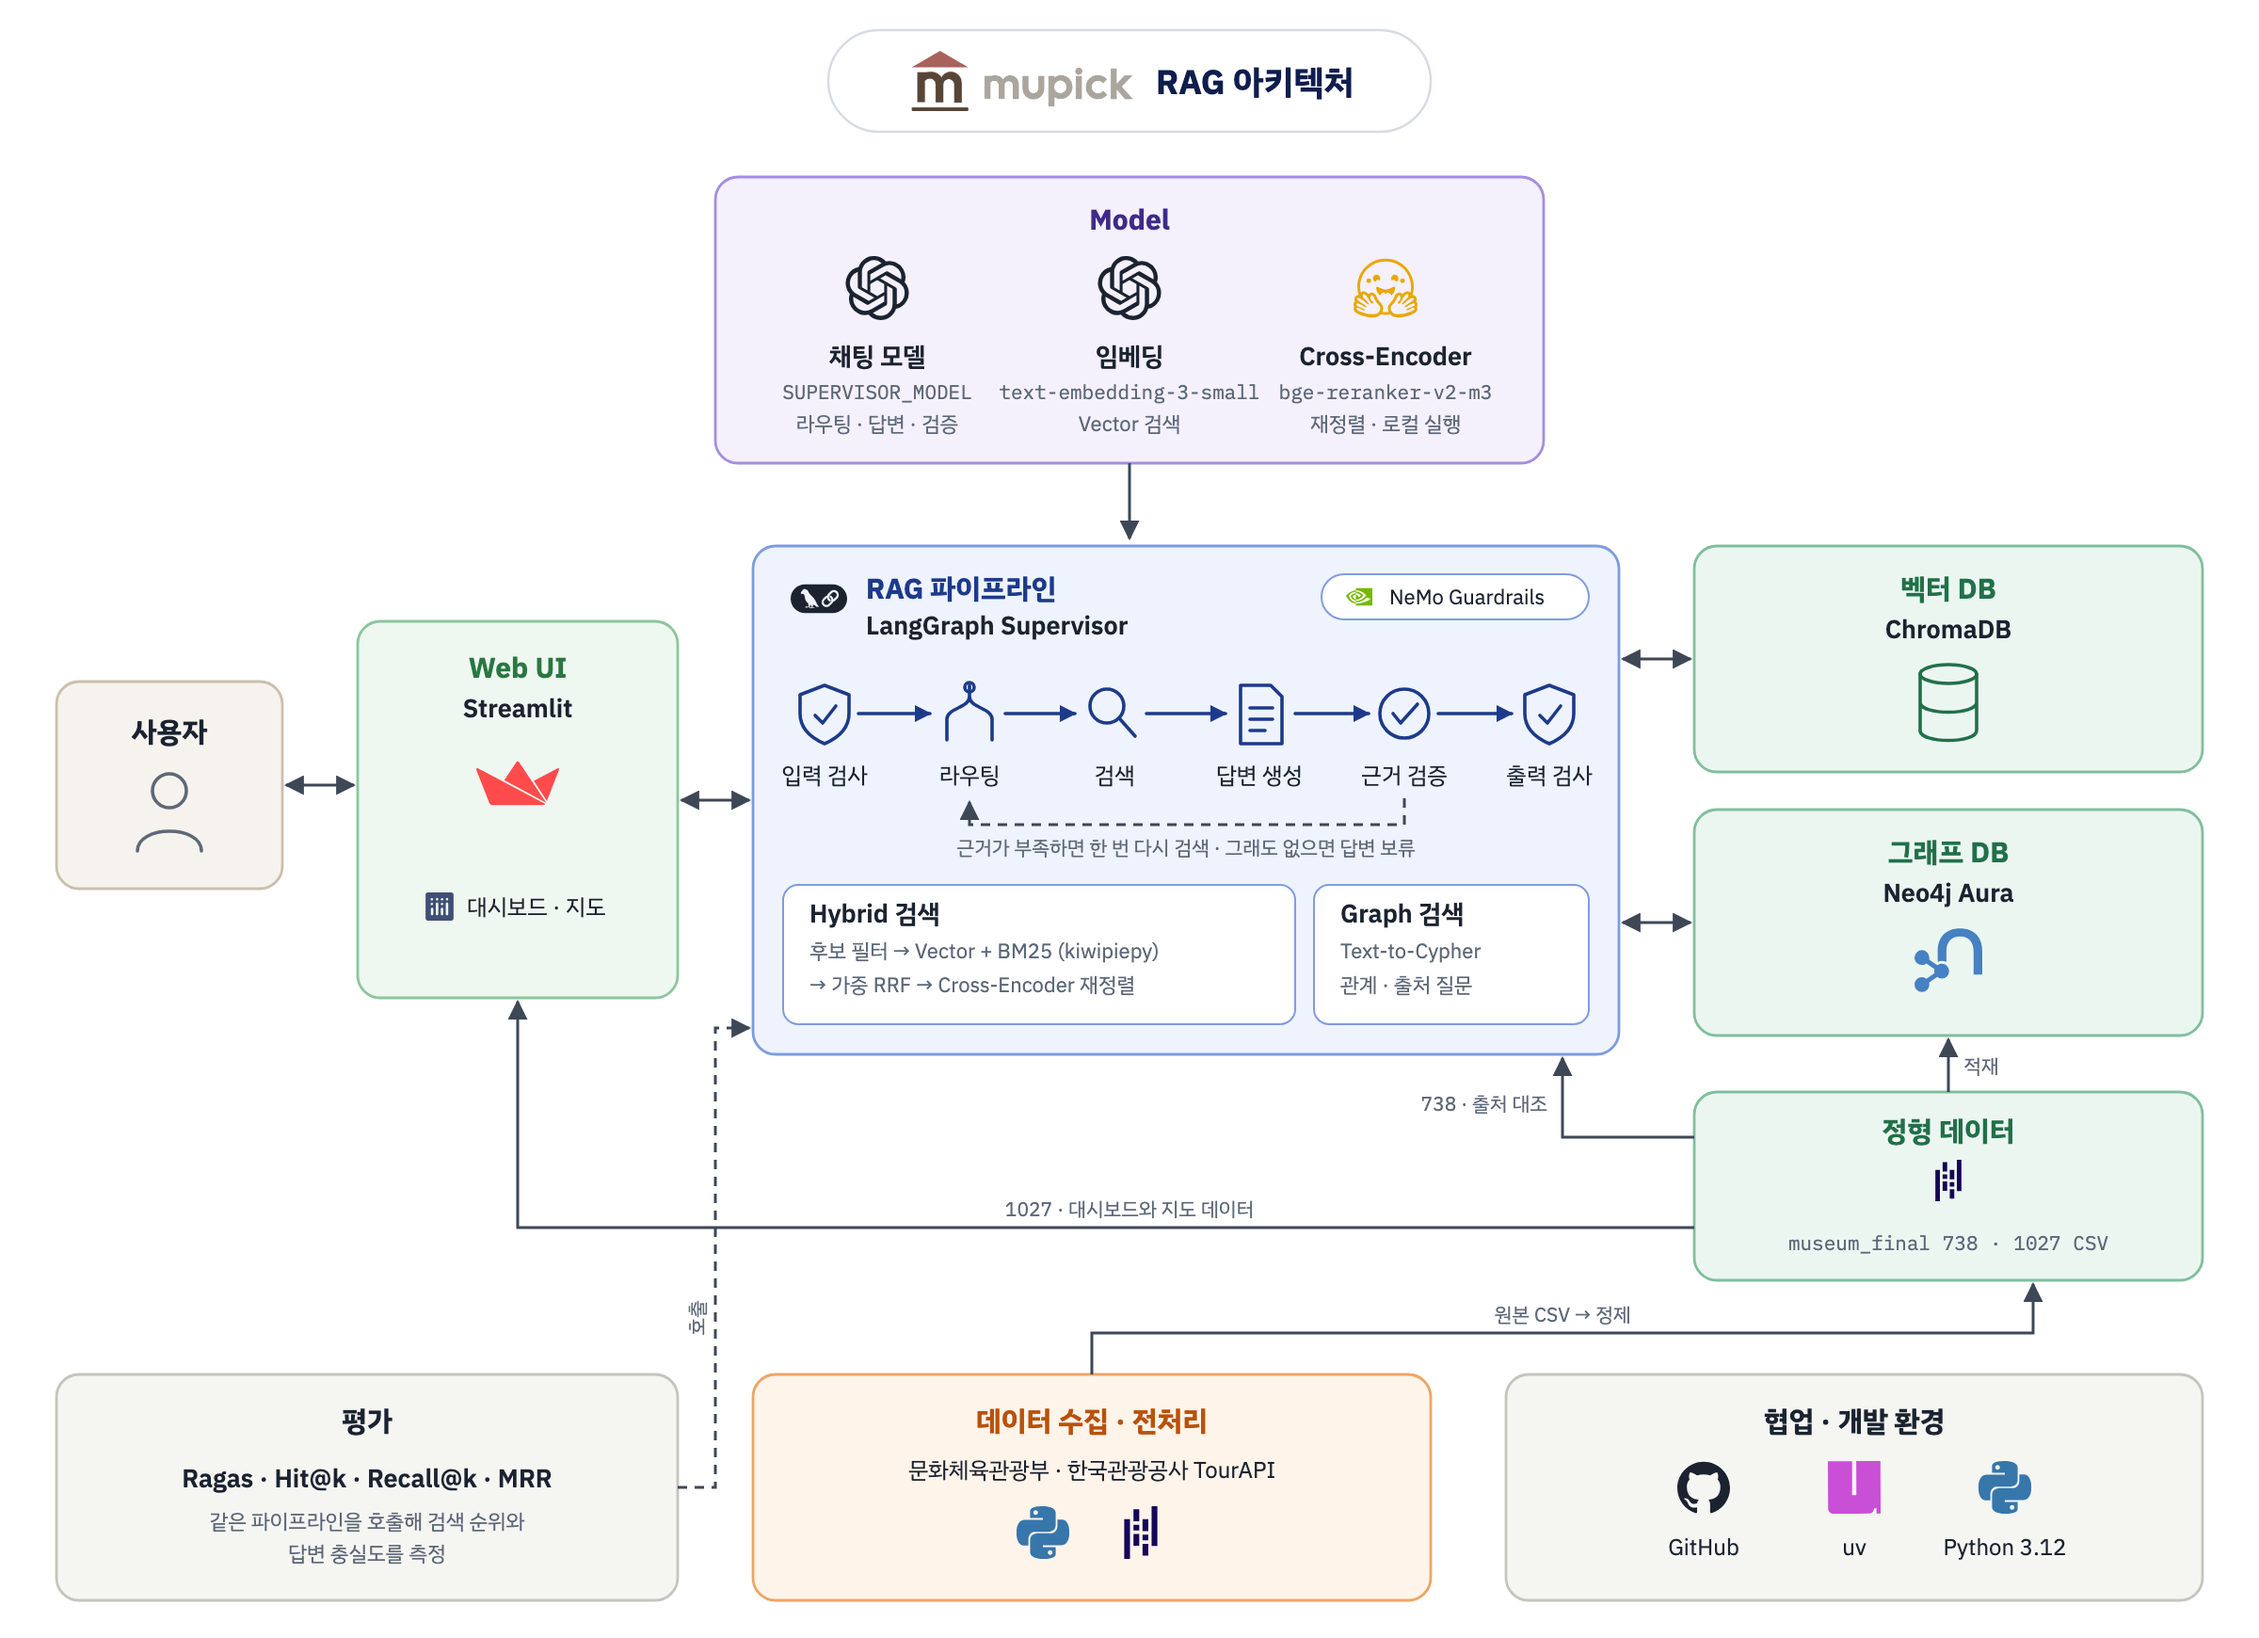
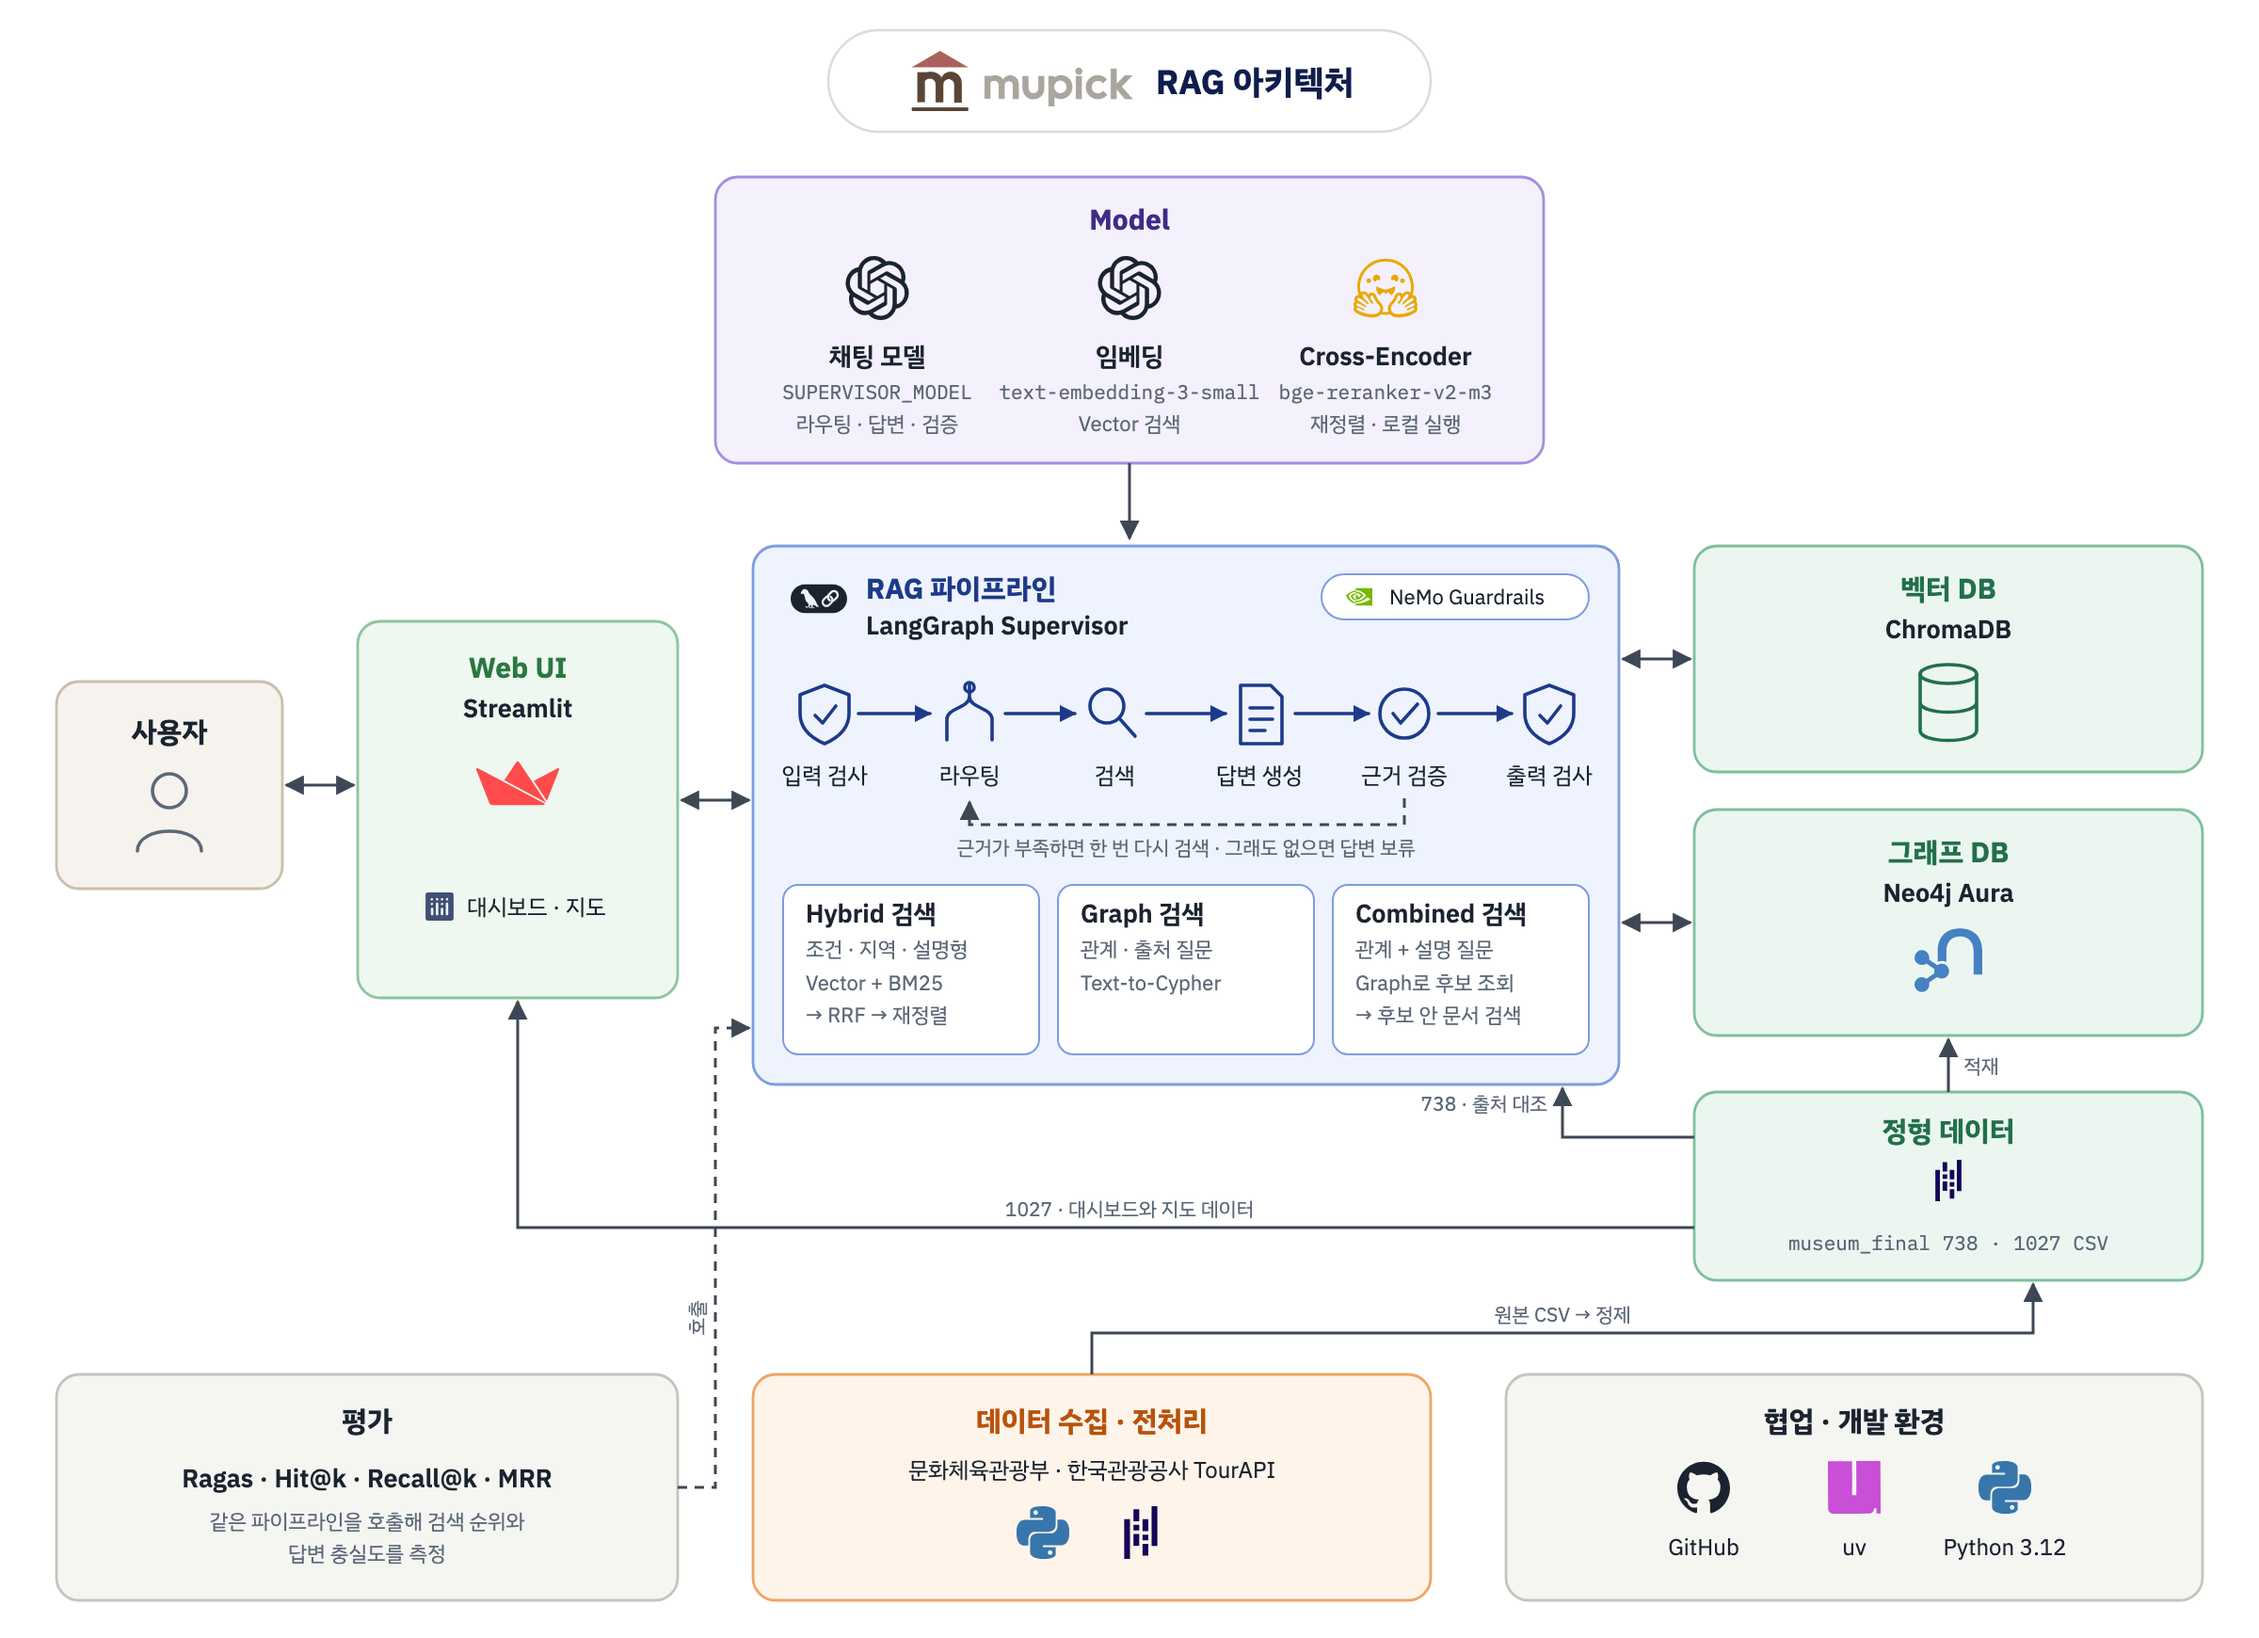
README 아키텍처 등 수정

diff --git a/README.md b/README.md
@@ -157,7 +157,7 @@ NEO4J_PASSWORD=...
 NEO4J_DATABASE=...
 ```
 
-- `gpt-6-luna`는 팀에서 개발한 예시 모델로, 계정에서 쓸 수 있는 구조화 출력 모델로 바꾸면 됩니다. (실행할 때 `--model`로 지정해도 가능)
+- `gpt-6-luna`는 팀에서 사용한 예시 모델로, 계정에서 쓸 수 있는 구조화 출력 모델로 바꾸면 됩니다. (실행할 때 `--model`로 지정해도 가능)
 - `OPENAI_CHAT_MODEL`, `RAGAS_JUDGE_MODEL`, `GUARDRAILS_MODEL`은 필요할 때만 지정합니다.
 - `.env`는 공유하거나 Git에 올리지 않습니다. 저장소에는 빈 양식인 [.env.example](.env.example)만 들어 있습니다.
 
